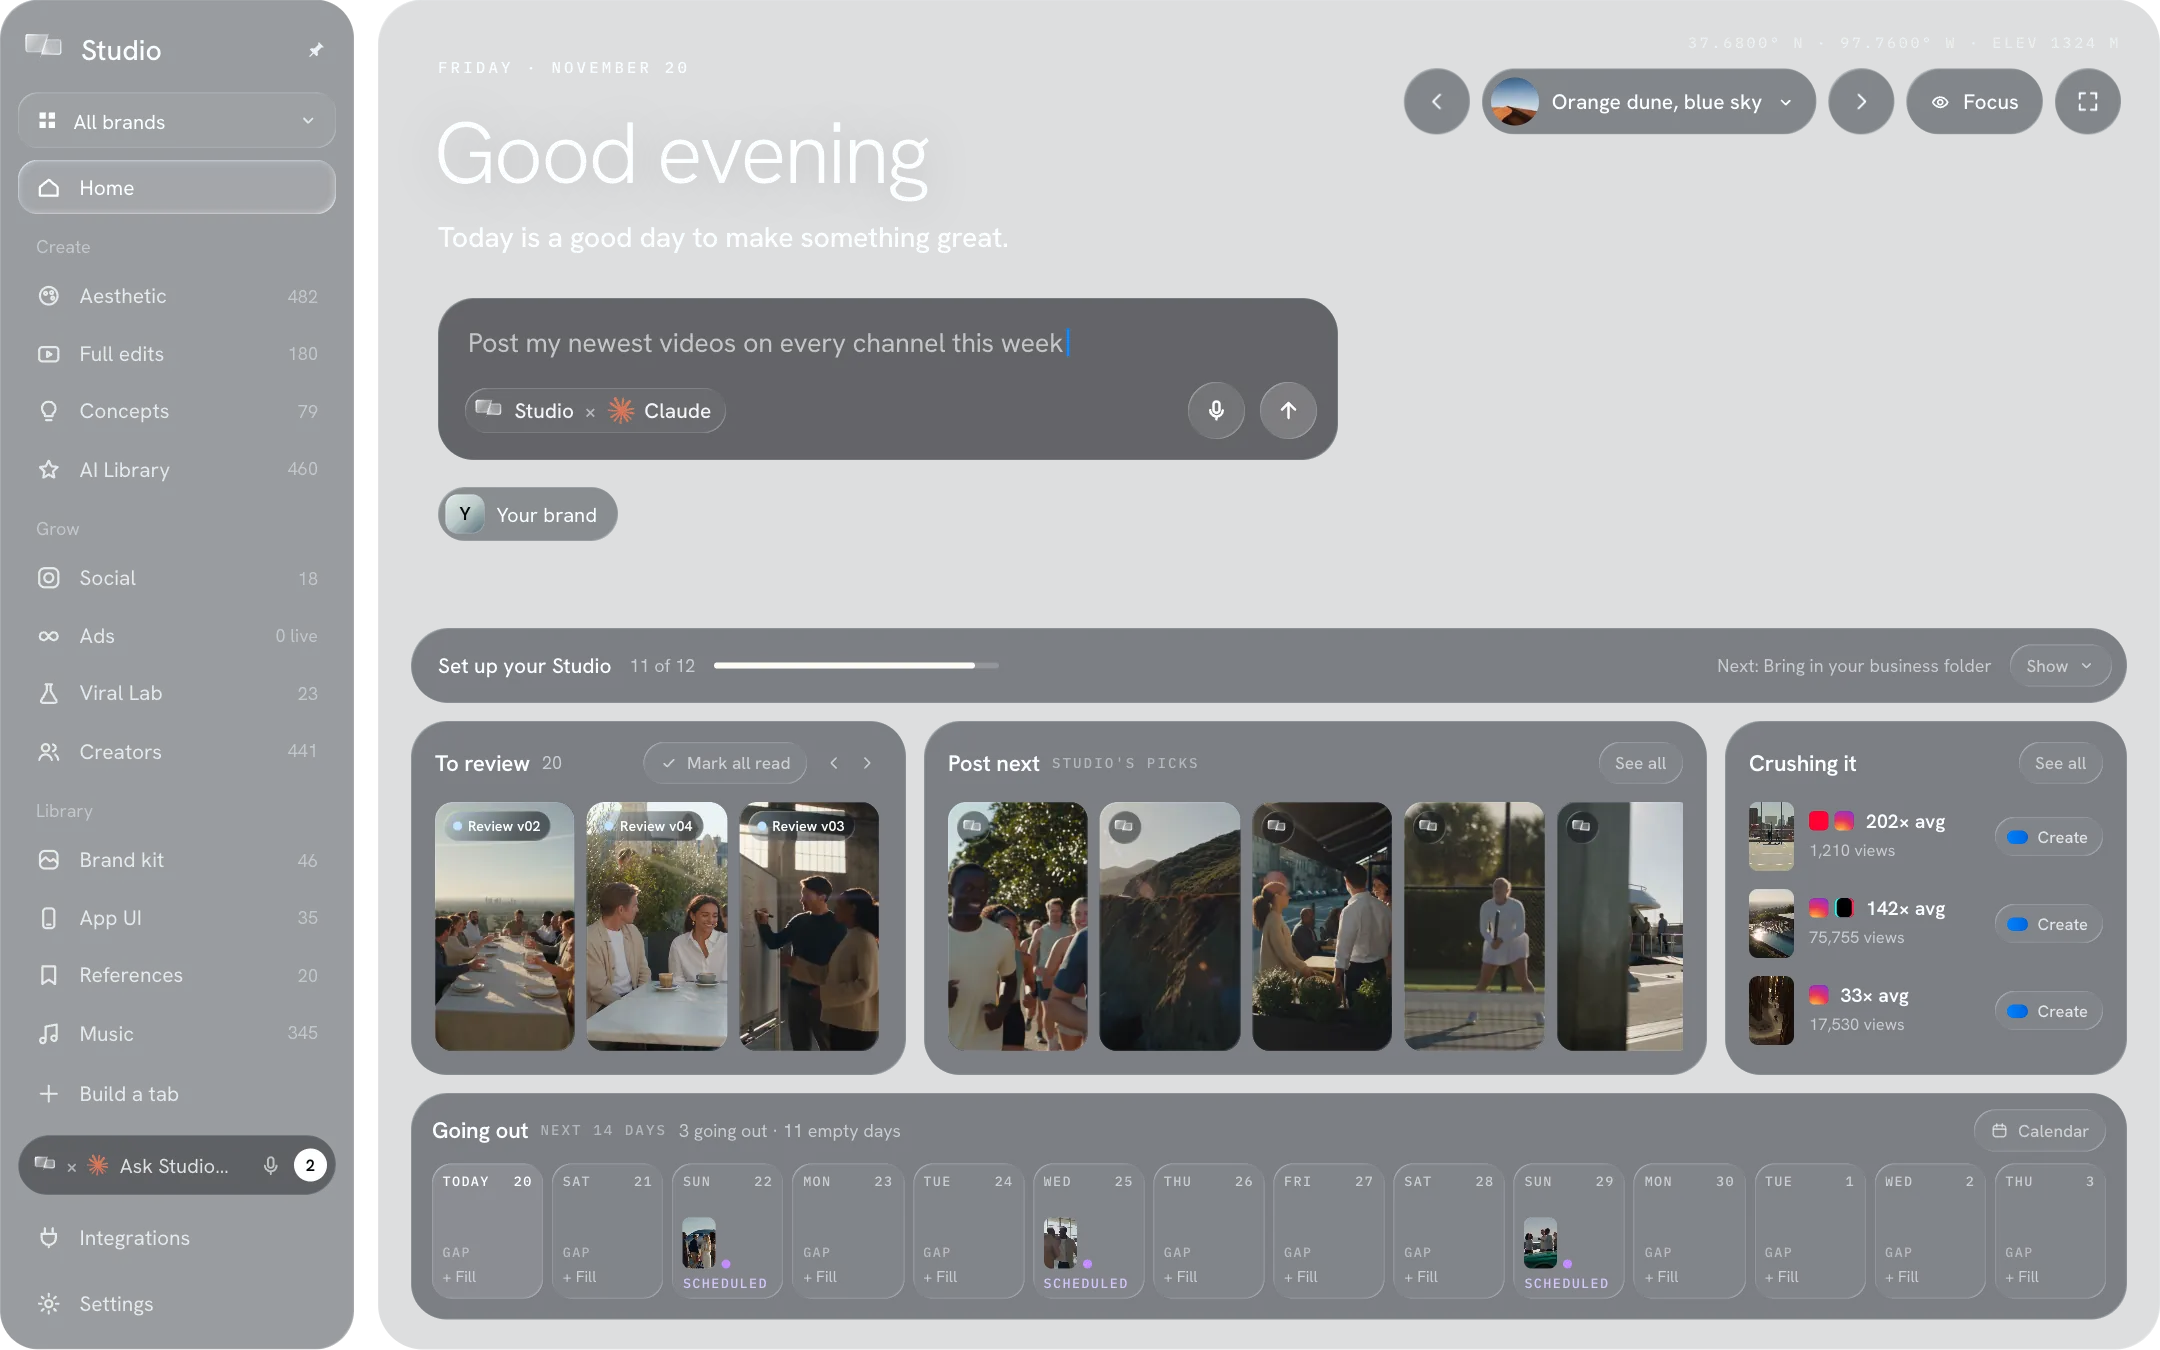
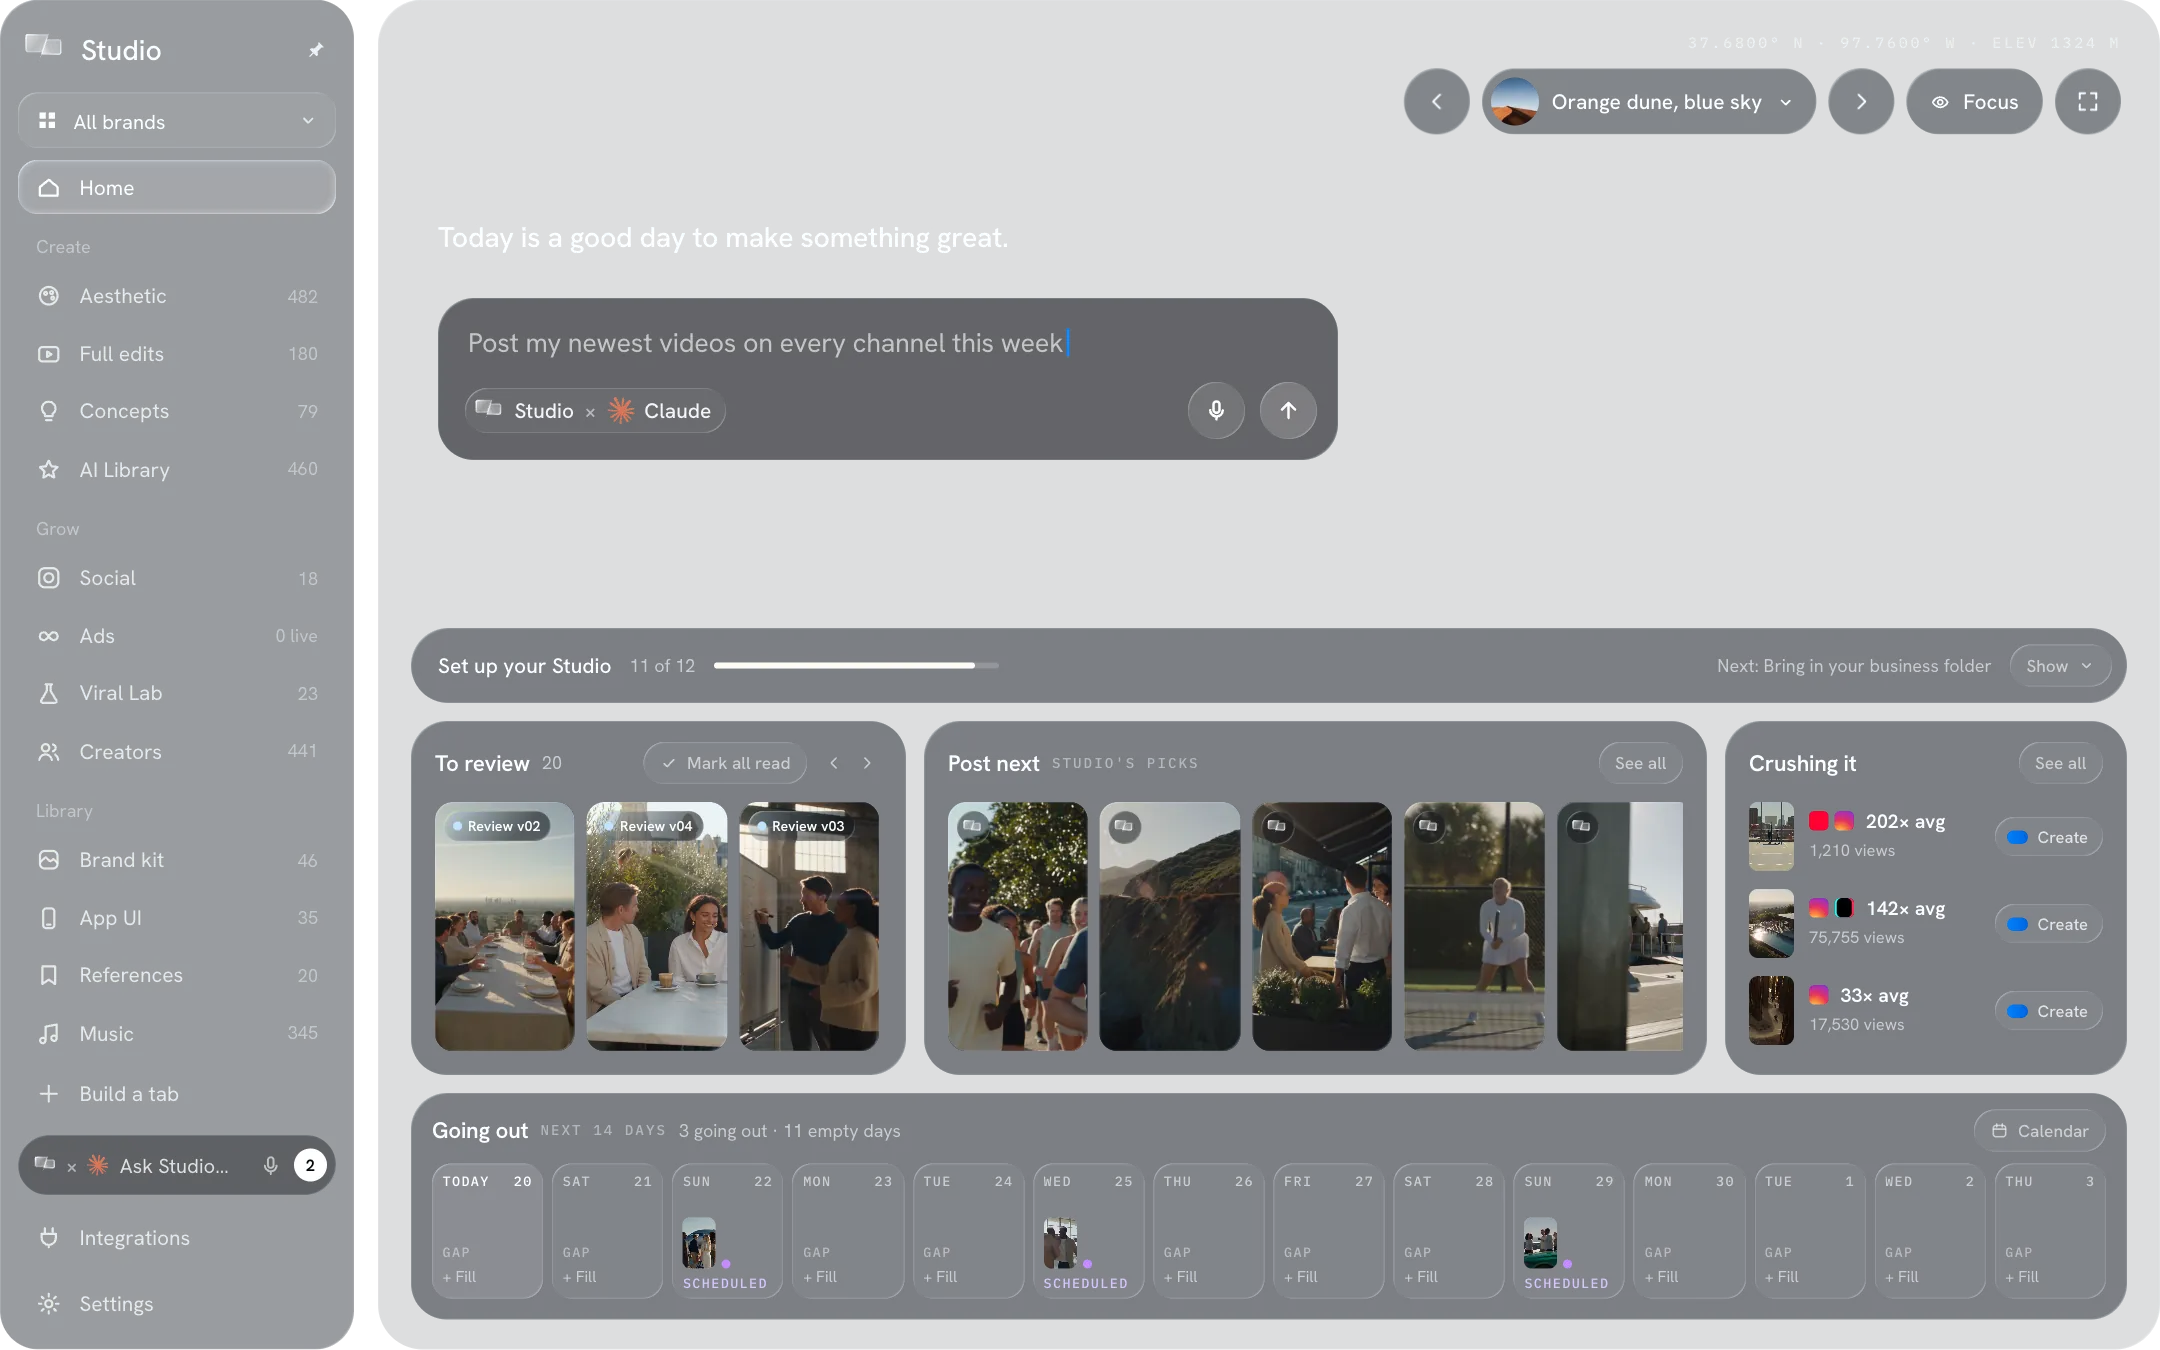
Story image: their own greeting ("Good evening, Sam"), their brand chip and today's date, drawn live on the real Home

Changed region(s): [[0.2171, 0.0933, 0.4343, 0.1556], [0.1861, 0.3422, 0.3102, 0.4044]]

diff --git a/site.js b/site.js
@@ -5689,6 +5689,20 @@ async function story(r, mode) {
       var m = document.createElement("canvas"); m.width = W; m.height = Hh; var mg = m.getContext("2d");
       mg.drawImage(fr, 0, 0); mg.globalCompositeOperation = "destination-in"; mg.drawImage(ui, ux, uy, uw, uh);
       g.drawImage(m, 0, 0); g.drawImage(ui, ux, uy, uw, uh);
+      /* their own greeting and brand chip on the Home (the image is captured without them; positions are the app's, at 1440 wide) */
+      var k = uw / 1440, nm = r.first || "", bn = nm ? nm + "'s brand" : "Your brand";
+      g.save(); g.textBaseline = "top"; g.fillStyle = "#fff"; g.font = "300 " + Math.round(58 * k) + "px " + F; try { g.letterSpacing = (-0.035 * 58 * k).toFixed(1) + "px"; } catch (e) {}
+      g.fillText(greet() + (nm ? ", " + nm : ""), ux + 289 * k, uy + 73 * k + 2); try { g.letterSpacing = "0px"; } catch (e) {}
+      var dstr = new Date().toLocaleDateString("en-US", { weekday: "long" }) + " · " + new Date().toLocaleDateString("en-US", { month: "long", day: "numeric" });
+      g.font = "500 " + Math.round(10.5 * k) + "px " + MO; g.fillStyle = "rgba(255,255,255,.92)"; try { g.letterSpacing = (0.2 * 10.5 * k).toFixed(1) + "px"; } catch (e) {}
+      g.fillText(dstr.toUpperCase(), ux + 292 * k, uy + 40 * k); try { g.letterSpacing = "0px"; } catch (e) {}
+      g.font = "400 " + Math.round(13.5 * k) + "px " + F; var cw = g.measureText(bn).width, cx = ux + 292 * k, cy = uy + 325 * k, ch = 36 * k, chw = cw + 50 * k;
+      rr(g, cx, cy, chw, ch, ch / 2); g.fillStyle = "rgba(12,19,28,.42)"; g.fill(); g.strokeStyle = "rgba(255,255,255,.32)"; g.lineWidth = 1.2; g.stroke();
+      var mg2 = g.createLinearGradient(cx, cy, cx + 26 * k, cy + 26 * k); mg2.addColorStop(0, "#DFEAE8"); mg2.addColorStop(1, "#536878");
+      rr(g, cx + 5 * k, cy + 5 * k, 26 * k, 26 * k, 8 * k); g.fillStyle = mg2; g.fill();
+      g.fillStyle = "#05090A"; g.font = "600 " + Math.round(12 * k) + "px " + F; g.textAlign = "center"; g.fillText((nm || "Y").charAt(0).toUpperCase(), cx + 18 * k, cy + 11 * k);
+      g.textAlign = "left"; g.fillStyle = "#fff"; g.font = "400 " + Math.round(13.5 * k) + "px " + F; g.fillText(bn, cx + 39 * k, cy + 11 * k);
+      g.restore();
       var fade = g.createLinearGradient(0, Hh - 260, 0, Hh); fade.addColorStop(0, "rgba(5,9,10,0)"); fade.addColorStop(1, "rgba(5,9,10,.55)"); g.fillStyle = fade; g.fillRect(0, Hh - 260, W, 260);
     }
     /* the words */

diff --git a/src/sections/900-early/section.js b/src/sections/900-early/section.js
@@ -1174,6 +1174,20 @@ async function story(r, mode) {
       var m = document.createElement("canvas"); m.width = W; m.height = Hh; var mg = m.getContext("2d");
       mg.drawImage(fr, 0, 0); mg.globalCompositeOperation = "destination-in"; mg.drawImage(ui, ux, uy, uw, uh);
       g.drawImage(m, 0, 0); g.drawImage(ui, ux, uy, uw, uh);
+      /* their own greeting and brand chip on the Home (the image is captured without them; positions are the app's, at 1440 wide) */
+      var k = uw / 1440, nm = r.first || "", bn = nm ? nm + "'s brand" : "Your brand";
+      g.save(); g.textBaseline = "top"; g.fillStyle = "#fff"; g.font = "300 " + Math.round(58 * k) + "px " + F; try { g.letterSpacing = (-0.035 * 58 * k).toFixed(1) + "px"; } catch (e) {}
+      g.fillText(greet() + (nm ? ", " + nm : ""), ux + 289 * k, uy + 73 * k + 2); try { g.letterSpacing = "0px"; } catch (e) {}
+      var dstr = new Date().toLocaleDateString("en-US", { weekday: "long" }) + " · " + new Date().toLocaleDateString("en-US", { month: "long", day: "numeric" });
+      g.font = "500 " + Math.round(10.5 * k) + "px " + MO; g.fillStyle = "rgba(255,255,255,.92)"; try { g.letterSpacing = (0.2 * 10.5 * k).toFixed(1) + "px"; } catch (e) {}
+      g.fillText(dstr.toUpperCase(), ux + 292 * k, uy + 40 * k); try { g.letterSpacing = "0px"; } catch (e) {}
+      g.font = "400 " + Math.round(13.5 * k) + "px " + F; var cw = g.measureText(bn).width, cx = ux + 292 * k, cy = uy + 325 * k, ch = 36 * k, chw = cw + 50 * k;
+      rr(g, cx, cy, chw, ch, ch / 2); g.fillStyle = "rgba(12,19,28,.42)"; g.fill(); g.strokeStyle = "rgba(255,255,255,.32)"; g.lineWidth = 1.2; g.stroke();
+      var mg2 = g.createLinearGradient(cx, cy, cx + 26 * k, cy + 26 * k); mg2.addColorStop(0, "#DFEAE8"); mg2.addColorStop(1, "#536878");
+      rr(g, cx + 5 * k, cy + 5 * k, 26 * k, 26 * k, 8 * k); g.fillStyle = mg2; g.fill();
+      g.fillStyle = "#05090A"; g.font = "600 " + Math.round(12 * k) + "px " + F; g.textAlign = "center"; g.fillText((nm || "Y").charAt(0).toUpperCase(), cx + 18 * k, cy + 11 * k);
+      g.textAlign = "left"; g.fillStyle = "#fff"; g.font = "400 " + Math.round(13.5 * k) + "px " + F; g.fillText(bn, cx + 39 * k, cy + 11 * k);
+      g.restore();
       var fade = g.createLinearGradient(0, Hh - 260, 0, Hh); fade.addColorStop(0, "rgba(5,9,10,0)"); fade.addColorStop(1, "rgba(5,9,10,.55)"); g.fillStyle = fade; g.fillRect(0, Hh - 260, W, 260);
     }
     /* the words */

diff --git a/index.html b/index.html
@@ -79,7 +79,7 @@
 <link rel="preconnect" href="https://api.fontshare.com">
 <link rel="preconnect" href="https://cdn.fontshare.com" crossorigin>
 <link rel="stylesheet" href="https://api.fontshare.com/v2/css?f[]=switzer@400,500&display=swap">
-<link rel="stylesheet" href="site.css?v=3f6eee26">
+<link rel="stylesheet" href="site.css?v=83a41720">
 <noscript><style>[data-reveal]{opacity:1!important;transform:none!important}</style></noscript>
 </head>
 <body>
@@ -1986,6 +1986,6 @@ set.</span></span></figure>
 
 <script src="vendor/beam_styles.js"></script>
 <script src="vendor/orb_engine.js"></script>
-<script src="site.js?v=3f6eee26"></script>
+<script src="site.js?v=83a41720"></script>
 </body>
 </html>
